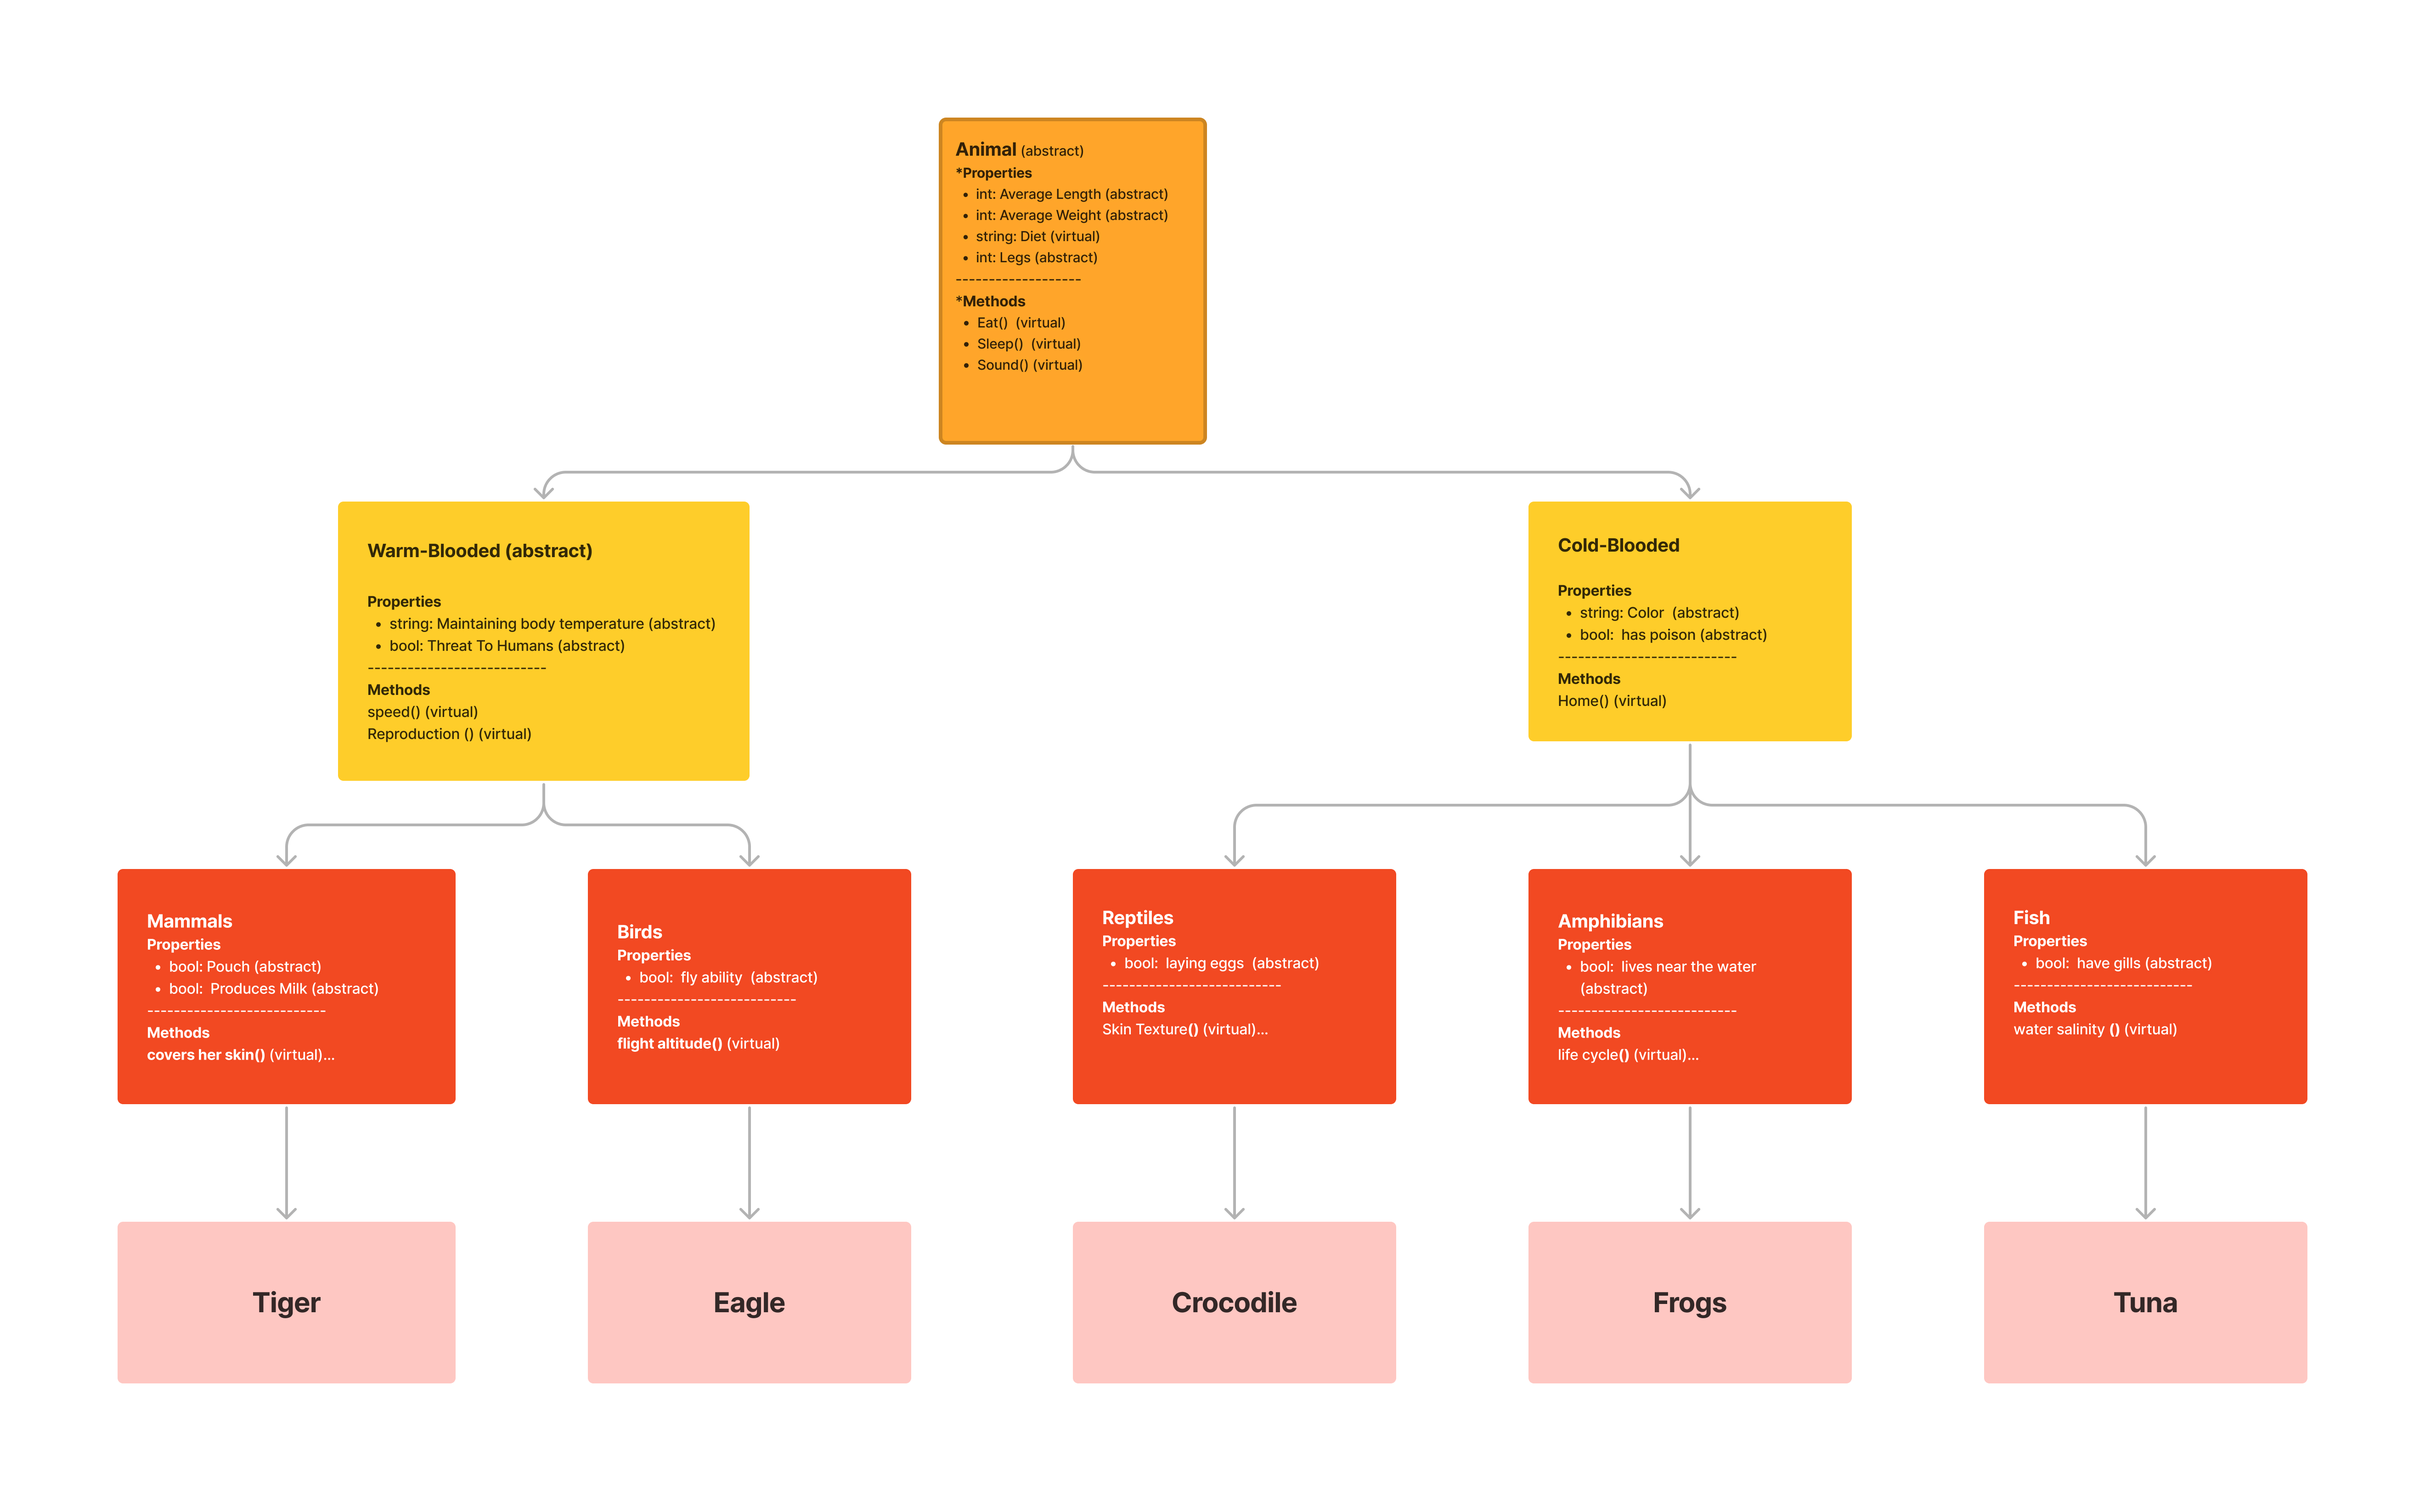
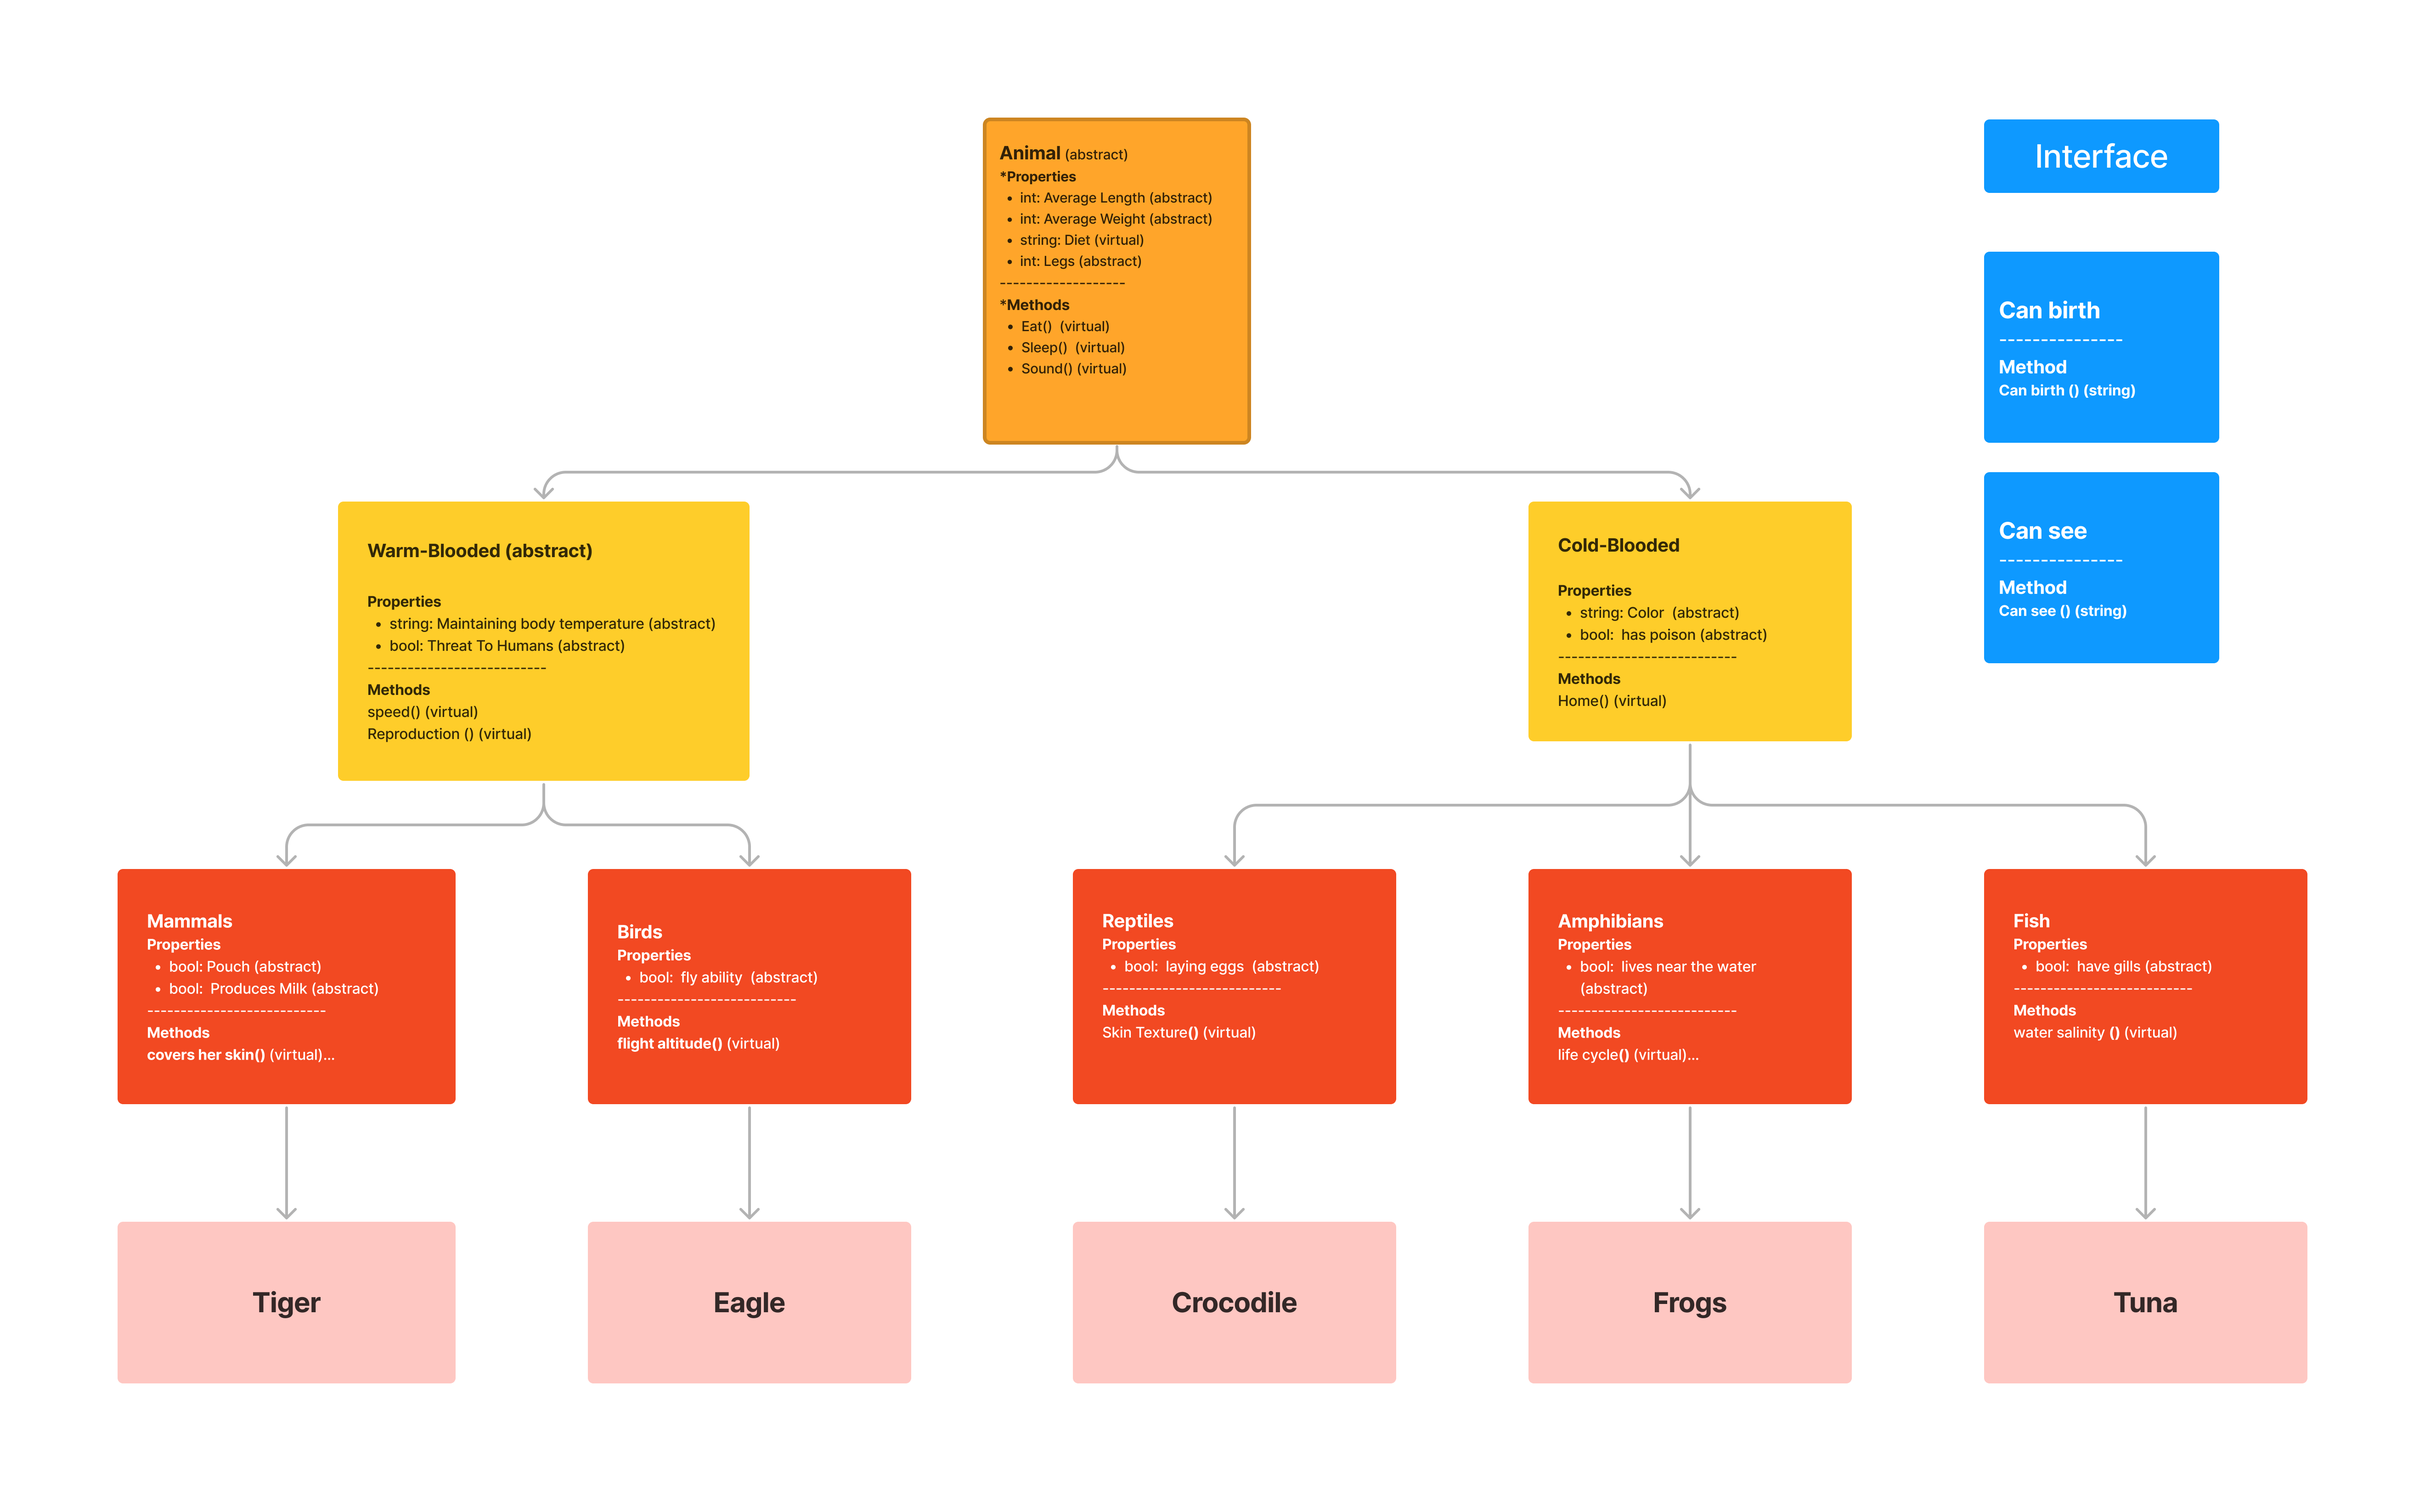
lab07

diff --git a/Lab06-built-a-Zoo/Program.cs b/Lab06-built-a-Zoo/Program.cs
@@ -8,6 +8,79 @@ namespace Lab06_built_a_Zoo
     {
         static void Main(string[] args)
         {
+
+            Console.WriteLine("......................The Warm Blooded......................");
+            TheWarmBlooded();
+            static void TheWarmBlooded()
+            {
+                Tiger TheTiger = new Tiger();
+                Eagle TheEagle = new Eagle();
+                Console.WriteLine();
+                Console.Write($" The Tiger average length in meters is {TheTiger.AverageLengthInMeters} and it average weight in kg is {TheTiger.AverageWeightInMetersInKg} ");
+                if(TheTiger.ProducesMilk)
+                {
+                    Console.Write("and the Tiger can produces milke.");
+                }
+                else 
+                {
+                    Console.Write("and the Tiger can't produces milke.");
+                }
+
+                Console.WriteLine();
+                Console.Write($" The Eagle average length in meters is {TheEagle.AverageLengthInMeters} and it average weight in kg is {TheEagle.AverageWeightInMetersInKg} ");
+                if (TheTiger.ProducesMilk)
+                {
+                    Console.Write("and the Eagle can produces milke.");
+                }
+                else
+                {
+                    Console.Write("and the Eagle can't produces milke.");
+                }
+                Console.WriteLine();
+            }
+            Console.WriteLine();
+            Console.WriteLine("......................The Cold Blooded......................");
+            TheColdBlooded();
+            static void TheColdBlooded()
+            {
+                Tuna TheTuna = new Tuna();
+                Frogs TheFrogs = new Frogs();
+                Crocodile TheCrocodile = new Crocodile();
+                Console.WriteLine();
+                Console.Write($" The Tuna average length in meters is {TheTuna.AverageLengthInMeters} and it average weight in kg is {TheTuna.AverageWeightInMetersInKg} ");
+                if (TheTuna.HaveGills)
+                {
+                    Console.Write("and the Tuna Have Gills.");
+                }
+                else
+                {
+                    Console.Write("and the Tuna don't Have Gills.");
+                }
+
+                Console.WriteLine();
+                Console.Write($" The Frogs average length in meters is {TheFrogs.AverageLengthInMeters} and it average weight in kg is {TheFrogs.AverageWeightInMetersInKg} ");
+                if (TheFrogs.LivesNearTheWater)
+                {
+                    Console.Write("and the Frogs Lives Near The Water.");
+                }
+                else
+                {
+                    Console.Write("and the Frogs don't Lives Near The Water.");
+                }
+              
+
+                Console.WriteLine();
+                Console.Write($" The Crocodile average length in meters is {TheCrocodile.AverageLengthInMeters} and it average weight in kg is {TheCrocodile.AverageWeightInMetersInKg} ");
+                if (TheCrocodile.LayingEggs)
+                {
+                    Console.Write("and the Crocodile can laying eggs.");
+                }
+                else
+                {
+                    Console.Write("and the Crocodile can't laying eggs.");
+                }
+                Console.WriteLine();
+            }
         }
     }
 }

diff --git a/Lab06-built-a-Zoo/Cold_Blooded/Frogs.cs b/Lab06-built-a-Zoo/Cold_Blooded/Frogs.cs
@@ -6,7 +6,7 @@ using System.Threading.Tasks;
 
 namespace Lab06_built_a_Zoo
 {
-    public class Frogs : Amphibians
+    public class Frogs : Amphibians, CanSee
     {
         public override int AverageLengthInMeters { get; set; }
         public override int AverageWeightInMetersInKg { get; set; }
@@ -55,6 +55,18 @@ namespace Lab06_built_a_Zoo
         {
             return "The life cycle of a frog from the time the eggs are laid until it is a young frog, the animal stays in water. Only when it is an adult frog will it leave the water. During its life the frog’s body shape changes from egg, to tadpole, to froglet, and then to an adult frog.";
         }
+
+
+
+        public string CanSee()
+        {
+            return "Frogs have nearly a 360 degree view due to the positioning and design of their eyes. ";
+        }
+
+
+
+
+
 
     }
 }

diff --git a/Lab06-built-a-Zoo/Warm_Blooded/Eagle.cs b/Lab06-built-a-Zoo/Warm_Blooded/Eagle.cs
@@ -6,7 +6,7 @@ using System.Threading.Tasks;
 
 namespace Lab06_built_a_Zoo
 {
-    public class Eagle : Birds
+    public class Eagle : Birds, CanSee
     {
         public override int AverageLengthInMeters { get; set; }
         public override int AverageWeightInMetersInKg { get; set; }
@@ -25,7 +25,7 @@ namespace Lab06_built_a_Zoo
             Legs = 2;
             MaintainingBodyTemperature = true;
             ThreatToHumans = true;
-            FlyAbility = true;
+            FlyAbility = false;
         }
 
         public override string Eat()
@@ -59,5 +59,12 @@ namespace Lab06_built_a_Zoo
         {
             return 3963;
         }
+
+        public string CanSee()
+        {
+            return "Eagles can see things from 20 feet away that we can only see from 5 feet away. ";
+        }
+
+
     }
 }

diff --git a/Lab06-built-a-Zoo/Warm_Blooded/Tiger.cs b/Lab06-built-a-Zoo/Warm_Blooded/Tiger.cs
@@ -6,7 +6,7 @@ using System.Threading.Tasks;
 
 namespace Lab06_built_a_Zoo
 {
-    public class Tiger : Mammals
+    public class Tiger : Mammals, CanBirth, CanSee
     {
         public override int AverageLengthInMeters { get; set; }
         public override int AverageWeightInMetersInKg { get; set; }
@@ -60,5 +60,17 @@ namespace Lab06_built_a_Zoo
         {
             return "The tigers skin covers by hair";
         }
+
+
+        public string CanSee()
+        {
+            return "Tigers can see colors mostly in blue, green, and gray shades.";
+        }
+        public string CanBirth()
+        {
+            return "The length of gestation varies between 93 and 114 days, with an average of 103 days.";
+        }
+
+
     }
 }

diff --git a/Lab06-built-a-Zoo/Cold_Blooded/Tuna.cs b/Lab06-built-a-Zoo/Cold_Blooded/Tuna.cs
@@ -6,7 +6,7 @@ using System.Threading.Tasks;
 
 namespace Lab06_built_a_Zoo
 {
-    public class Tuna : Fish
+    public class Tuna : Fish, CanSee
     {
         public override int AverageLengthInMeters { get; set; }
         public override int AverageWeightInMetersInKg { get; set; }
@@ -55,5 +55,13 @@ namespace Lab06_built_a_Zoo
         {
             return "The range 33–42 ppt salinity";
         }
+
+
+        public string CanSee()
+        {
+            return "Tuna fish have excellent vision and rely on it to catch prey. They have five copies of a gene for the version of the visual pigment, opsin, that detects green wavelengths. This helps them spot prey in the blue ocean";
+        }
+        
+
     }
 }

diff --git a/Lab06-built-a-Zoo/Cold_Blooded/Crocodile.cs b/Lab06-built-a-Zoo/Cold_Blooded/Crocodile.cs
@@ -7,7 +7,7 @@ using System.Threading.Tasks;
 
 namespace Lab06_built_a_Zoo
 {
-    public class Crocodile : Reptiles
+    public class Crocodile : Reptiles, CanSee
     {
 
         public override int AverageLengthInMeters { get; set; }
@@ -56,6 +56,11 @@ namespace Lab06_built_a_Zoo
 
         {
             return "Crocodile skin texture is rough and scaly.";
+        }
+
+        public string CanSee()
+        {
+            return "Crocodiles have excellent vision both in and out of water.";
         }
     }
 }

diff --git a/Lab06-built-a-Zoo/Interfeces/CanBirth.cs b/Lab06-built-a-Zoo/Interfeces/CanBirth.cs
@@ -1,0 +1,14 @@
+using System;
+using System.Collections.Generic;
+using System.Linq;
+using System.Text;
+using System.Threading.Tasks;
+
+namespace Lab06_built_a_Zoo
+{
+    public interface CanBirth
+    {
+        string CanBirth();
+        
+    }
+}

diff --git a/Lab06-built-a-Zoo/Interfeces/CanSee.cs b/Lab06-built-a-Zoo/Interfeces/CanSee.cs
@@ -1,0 +1,14 @@
+using System;
+using System.Collections.Generic;
+using System.Linq;
+using System.Text;
+using System.Threading.Tasks;
+
+namespace Lab06_built_a_Zoo
+{
+    public interface CanSee
+    {
+        string CanSee();
+
+    }
+}
